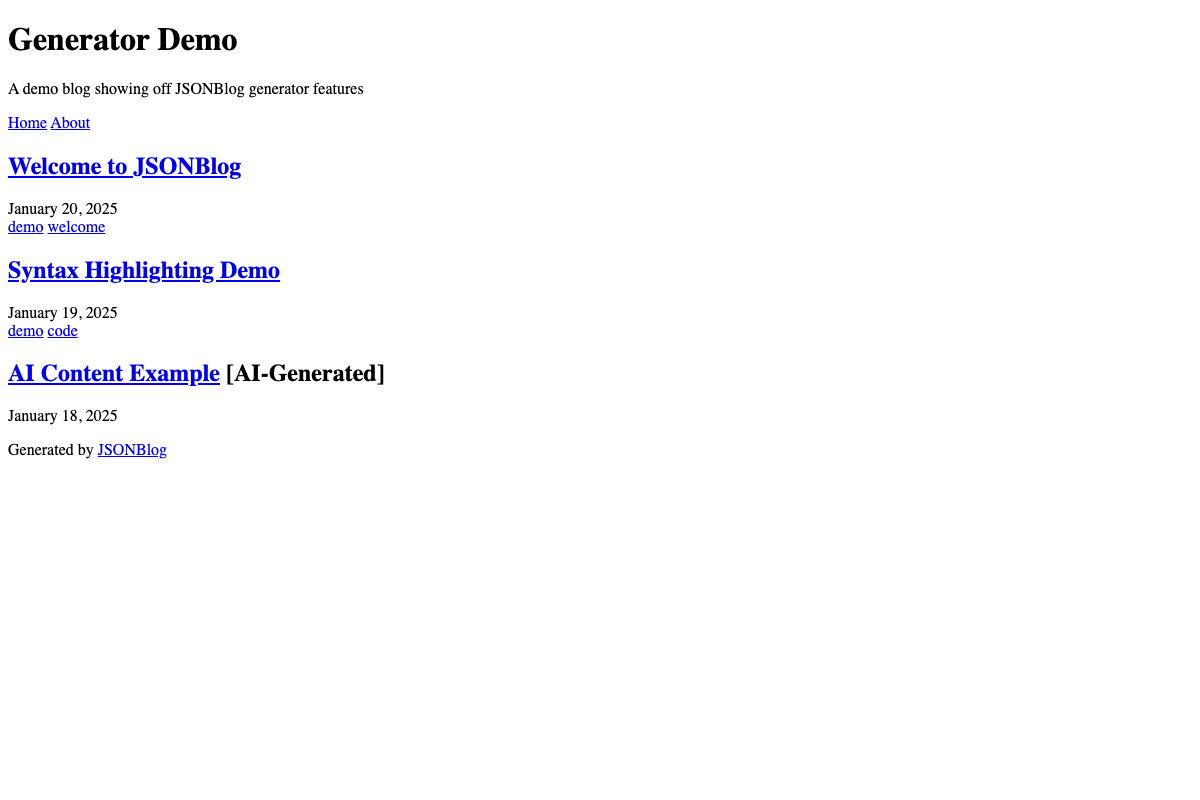
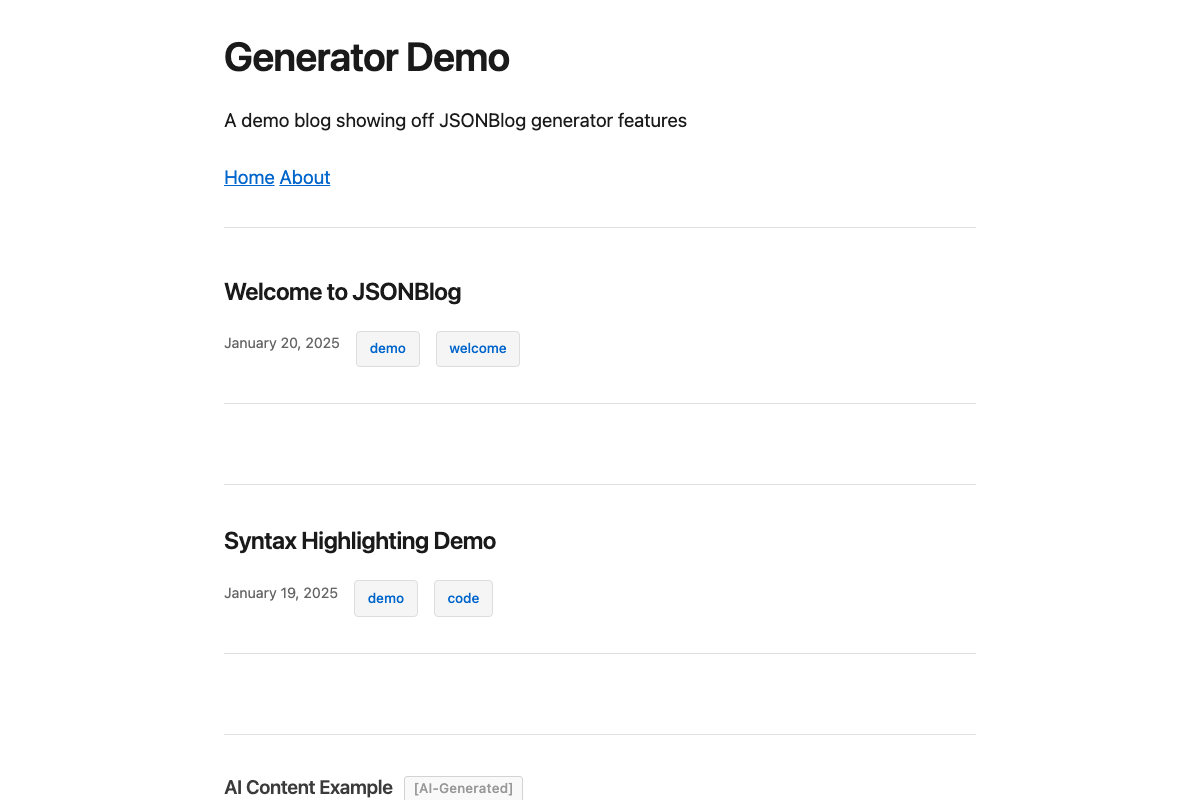
fix(homepage): fix CSS loading in demo screenshots
- Updated screenshot capture script to route absolute paths correctly
- Server now detects current demo context and serves CSS from demo directory
- When viewing /demos/boilerplate/, requests to /main.css now correctly serve /demos/boilerplate/main.css
- Regenerated screenshots with proper styling visible

Screenshots now show:
- Boilerplate: Clean Medium-inspired typography and layout
- Tailwind: Dark AI Lab Notebook aesthetic with blueprint grid

🤖 Generated with [Claude Code](https://claude.com/claude-code)

diff --git a/apps/homepage/public/demos/boilerplate/about/index.html b/apps/homepage/public/demos/boilerplate/about/index.html
@@ -8,7 +8,7 @@
   <link rel="stylesheet" href="/main.css">
   <link rel="stylesheet" href="https://cdnjs.cloudflare.com/ajax/libs/highlight.js/11.9.0/styles/atom-one-dark.min.css">
   <link rel="alternate" type="application/rss+xml" title="Generator Demo RSS Feed" href="/rss.xml">
-  <link rel="canonical" href="https://jsonblog.dev/demos">
+  <link rel="canonical" href="https://jsonblog.dev/demos/boilerplate">
 </head>
 <body class="bg-ink-900 bg-blueprint-grid bg-grid-32 animate-fade-in">
   <div class="max-w-wide mx-auto px-4 md:px-8 py-8 md:py-12">

diff --git a/apps/homepage/public/demos/boilerplate/ai-content-example/index.html b/apps/homepage/public/demos/boilerplate/ai-content-example/index.html
@@ -8,7 +8,7 @@
   <link rel="stylesheet" href="/main.css">
   <link rel="stylesheet" href="https://cdnjs.cloudflare.com/ajax/libs/highlight.js/11.9.0/styles/atom-one-dark.min.css">
   <link rel="alternate" type="application/rss+xml" title="Generator Demo RSS Feed" href="/rss.xml">
-  <link rel="canonical" href="https://jsonblog.dev/demos">
+  <link rel="canonical" href="https://jsonblog.dev/demos/boilerplate">
 </head>
 <body class="bg-ink-900 bg-blueprint-grid bg-grid-32 animate-fade-in">
   <div class="max-w-wide mx-auto px-4 md:px-8 py-8 md:py-12">

diff --git a/apps/homepage/public/demos/boilerplate/index.html b/apps/homepage/public/demos/boilerplate/index.html
@@ -8,7 +8,7 @@
   <link rel="stylesheet" href="/main.css">
   <link rel="stylesheet" href="https://cdnjs.cloudflare.com/ajax/libs/highlight.js/11.9.0/styles/atom-one-dark.min.css">
   <link rel="alternate" type="application/rss+xml" title="Generator Demo RSS Feed" href="/rss.xml">
-  <link rel="canonical" href="https://jsonblog.dev/demos">
+  <link rel="canonical" href="https://jsonblog.dev/demos/boilerplate">
 </head>
 <body class="bg-ink-900 bg-blueprint-grid bg-grid-32 animate-fade-in">
   <div class="max-w-wide mx-auto px-4 md:px-8 py-8 md:py-12">

diff --git a/apps/homepage/public/demos/boilerplate/page/1/index.html b/apps/homepage/public/demos/boilerplate/page/1/index.html
@@ -8,7 +8,7 @@
   <link rel="stylesheet" href="/main.css">
   <link rel="stylesheet" href="https://cdnjs.cloudflare.com/ajax/libs/highlight.js/11.9.0/styles/atom-one-dark.min.css">
   <link rel="alternate" type="application/rss+xml" title="Generator Demo RSS Feed" href="/rss.xml">
-  <link rel="canonical" href="https://jsonblog.dev/demos">
+  <link rel="canonical" href="https://jsonblog.dev/demos/boilerplate">
 </head>
 <body class="bg-ink-900 bg-blueprint-grid bg-grid-32 animate-fade-in">
   <div class="max-w-wide mx-auto px-4 md:px-8 py-8 md:py-12">

diff --git a/apps/homepage/public/demos/boilerplate/syntax-highlighting-demo/index.html b/apps/homepage/public/demos/boilerplate/syntax-highlighting-demo/index.html
@@ -8,7 +8,7 @@
   <link rel="stylesheet" href="/main.css">
   <link rel="stylesheet" href="https://cdnjs.cloudflare.com/ajax/libs/highlight.js/11.9.0/styles/atom-one-dark.min.css">
   <link rel="alternate" type="application/rss+xml" title="Generator Demo RSS Feed" href="/rss.xml">
-  <link rel="canonical" href="https://jsonblog.dev/demos">
+  <link rel="canonical" href="https://jsonblog.dev/demos/boilerplate">
 </head>
 <body class="bg-ink-900 bg-blueprint-grid bg-grid-32 animate-fade-in">
   <div class="max-w-wide mx-auto px-4 md:px-8 py-8 md:py-12">

diff --git a/apps/homepage/public/demos/boilerplate/tag/code/index.html b/apps/homepage/public/demos/boilerplate/tag/code/index.html
@@ -8,7 +8,7 @@
   <link rel="stylesheet" href="/main.css">
   <link rel="stylesheet" href="https://cdnjs.cloudflare.com/ajax/libs/highlight.js/11.9.0/styles/atom-one-dark.min.css">
   <link rel="alternate" type="application/rss+xml" title="Generator Demo RSS Feed" href="/rss.xml">
-  <link rel="canonical" href="https://jsonblog.dev/demos">
+  <link rel="canonical" href="https://jsonblog.dev/demos/boilerplate">
 </head>
 <body class="bg-ink-900 bg-blueprint-grid bg-grid-32 animate-fade-in">
   <div class="max-w-wide mx-auto px-4 md:px-8 py-8 md:py-12">

diff --git a/apps/homepage/public/demos/boilerplate/tag/demo/index.html b/apps/homepage/public/demos/boilerplate/tag/demo/index.html
@@ -8,7 +8,7 @@
   <link rel="stylesheet" href="/main.css">
   <link rel="stylesheet" href="https://cdnjs.cloudflare.com/ajax/libs/highlight.js/11.9.0/styles/atom-one-dark.min.css">
   <link rel="alternate" type="application/rss+xml" title="Generator Demo RSS Feed" href="/rss.xml">
-  <link rel="canonical" href="https://jsonblog.dev/demos">
+  <link rel="canonical" href="https://jsonblog.dev/demos/boilerplate">
 </head>
 <body class="bg-ink-900 bg-blueprint-grid bg-grid-32 animate-fade-in">
   <div class="max-w-wide mx-auto px-4 md:px-8 py-8 md:py-12">

diff --git a/apps/homepage/public/demos/boilerplate/tag/welcome/index.html b/apps/homepage/public/demos/boilerplate/tag/welcome/index.html
@@ -8,7 +8,7 @@
   <link rel="stylesheet" href="/main.css">
   <link rel="stylesheet" href="https://cdnjs.cloudflare.com/ajax/libs/highlight.js/11.9.0/styles/atom-one-dark.min.css">
   <link rel="alternate" type="application/rss+xml" title="Generator Demo RSS Feed" href="/rss.xml">
-  <link rel="canonical" href="https://jsonblog.dev/demos">
+  <link rel="canonical" href="https://jsonblog.dev/demos/boilerplate">
 </head>
 <body class="bg-ink-900 bg-blueprint-grid bg-grid-32 animate-fade-in">
   <div class="max-w-wide mx-auto px-4 md:px-8 py-8 md:py-12">

diff --git a/apps/homepage/public/demos/boilerplate/welcome-to-jsonblog/index.html b/apps/homepage/public/demos/boilerplate/welcome-to-jsonblog/index.html
@@ -8,7 +8,7 @@
   <link rel="stylesheet" href="/main.css">
   <link rel="stylesheet" href="https://cdnjs.cloudflare.com/ajax/libs/highlight.js/11.9.0/styles/atom-one-dark.min.css">
   <link rel="alternate" type="application/rss+xml" title="Generator Demo RSS Feed" href="/rss.xml">
-  <link rel="canonical" href="https://jsonblog.dev/demos">
+  <link rel="canonical" href="https://jsonblog.dev/demos/boilerplate">
 </head>
 <body class="bg-ink-900 bg-blueprint-grid bg-grid-32 animate-fade-in">
   <div class="max-w-wide mx-auto px-4 md:px-8 py-8 md:py-12">

diff --git a/apps/homepage/public/demos/tailwind/about/index.html b/apps/homepage/public/demos/tailwind/about/index.html
@@ -8,7 +8,7 @@
   <link rel="stylesheet" href="/main.css">
   <link rel="stylesheet" href="https://cdnjs.cloudflare.com/ajax/libs/highlight.js/11.9.0/styles/atom-one-dark.min.css">
   <link rel="alternate" type="application/rss+xml" title="Generator Demo RSS Feed" href="/rss.xml">
-  <link rel="canonical" href="https://jsonblog.dev/demos">
+  <link rel="canonical" href="https://jsonblog.dev/demos/tailwind">
 </head>
 <body class="bg-ink-900 bg-blueprint-grid bg-grid-32 animate-fade-in">
   <div class="max-w-wide mx-auto px-4 md:px-8 py-8 md:py-12">

diff --git a/apps/homepage/public/demos/tailwind/ai-content-example/index.html b/apps/homepage/public/demos/tailwind/ai-content-example/index.html
@@ -8,7 +8,7 @@
   <link rel="stylesheet" href="/main.css">
   <link rel="stylesheet" href="https://cdnjs.cloudflare.com/ajax/libs/highlight.js/11.9.0/styles/atom-one-dark.min.css">
   <link rel="alternate" type="application/rss+xml" title="Generator Demo RSS Feed" href="/rss.xml">
-  <link rel="canonical" href="https://jsonblog.dev/demos">
+  <link rel="canonical" href="https://jsonblog.dev/demos/tailwind">
 </head>
 <body class="bg-ink-900 bg-blueprint-grid bg-grid-32 animate-fade-in">
   <div class="max-w-wide mx-auto px-4 md:px-8 py-8 md:py-12">

diff --git a/apps/homepage/public/demos/tailwind/index.html b/apps/homepage/public/demos/tailwind/index.html
@@ -8,7 +8,7 @@
   <link rel="stylesheet" href="/main.css">
   <link rel="stylesheet" href="https://cdnjs.cloudflare.com/ajax/libs/highlight.js/11.9.0/styles/atom-one-dark.min.css">
   <link rel="alternate" type="application/rss+xml" title="Generator Demo RSS Feed" href="/rss.xml">
-  <link rel="canonical" href="https://jsonblog.dev/demos">
+  <link rel="canonical" href="https://jsonblog.dev/demos/tailwind">
 </head>
 <body class="bg-ink-900 bg-blueprint-grid bg-grid-32 animate-fade-in">
   <div class="max-w-wide mx-auto px-4 md:px-8 py-8 md:py-12">
